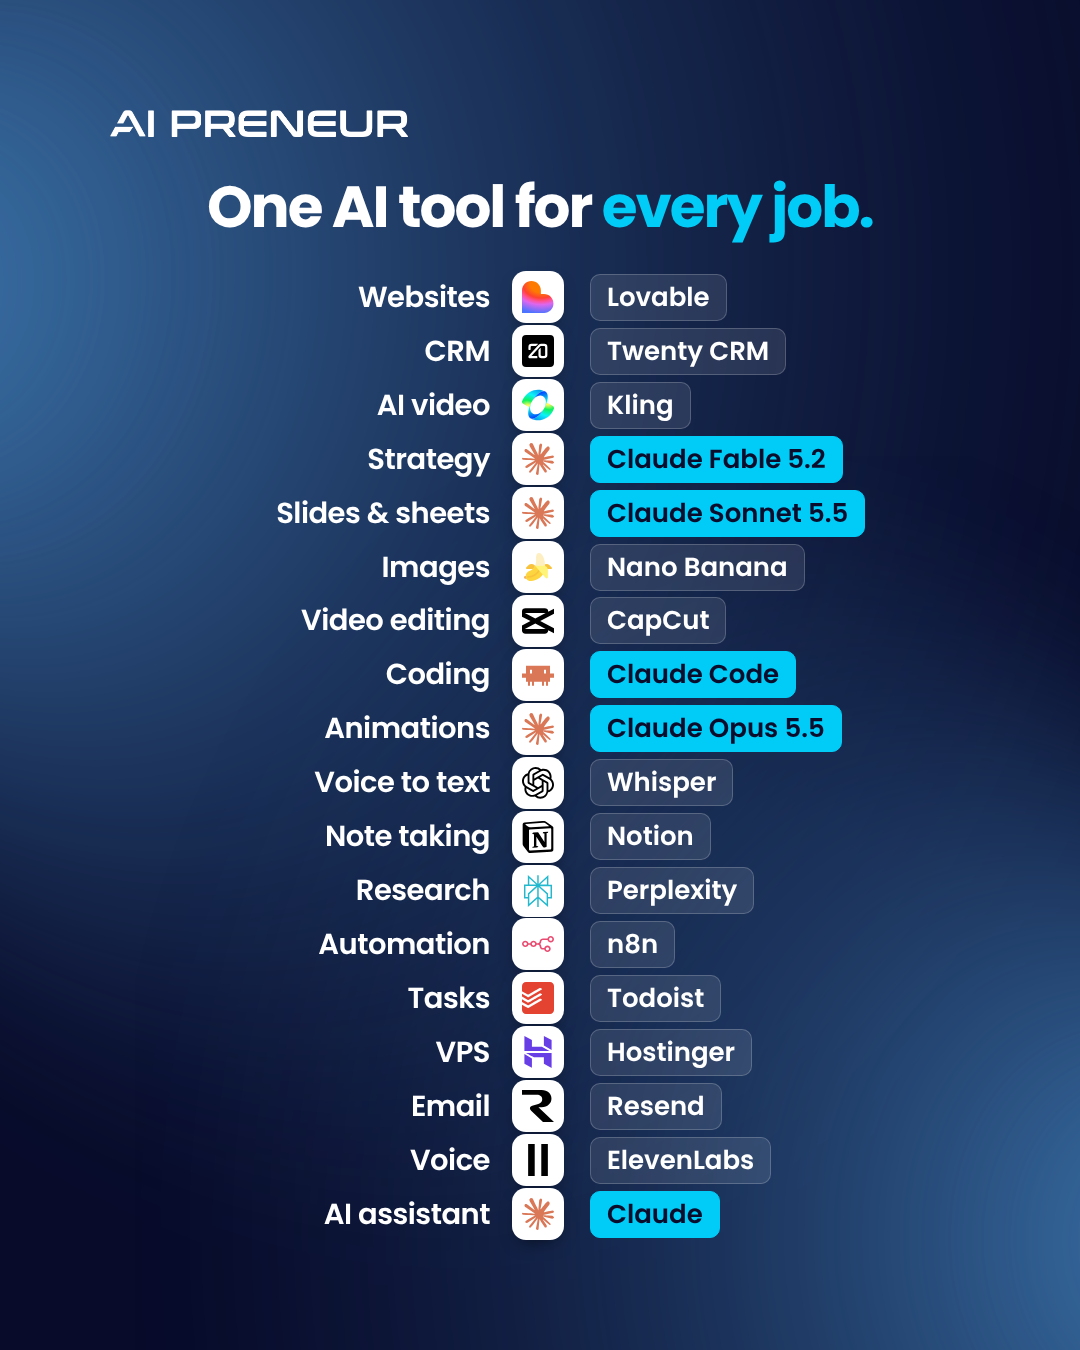
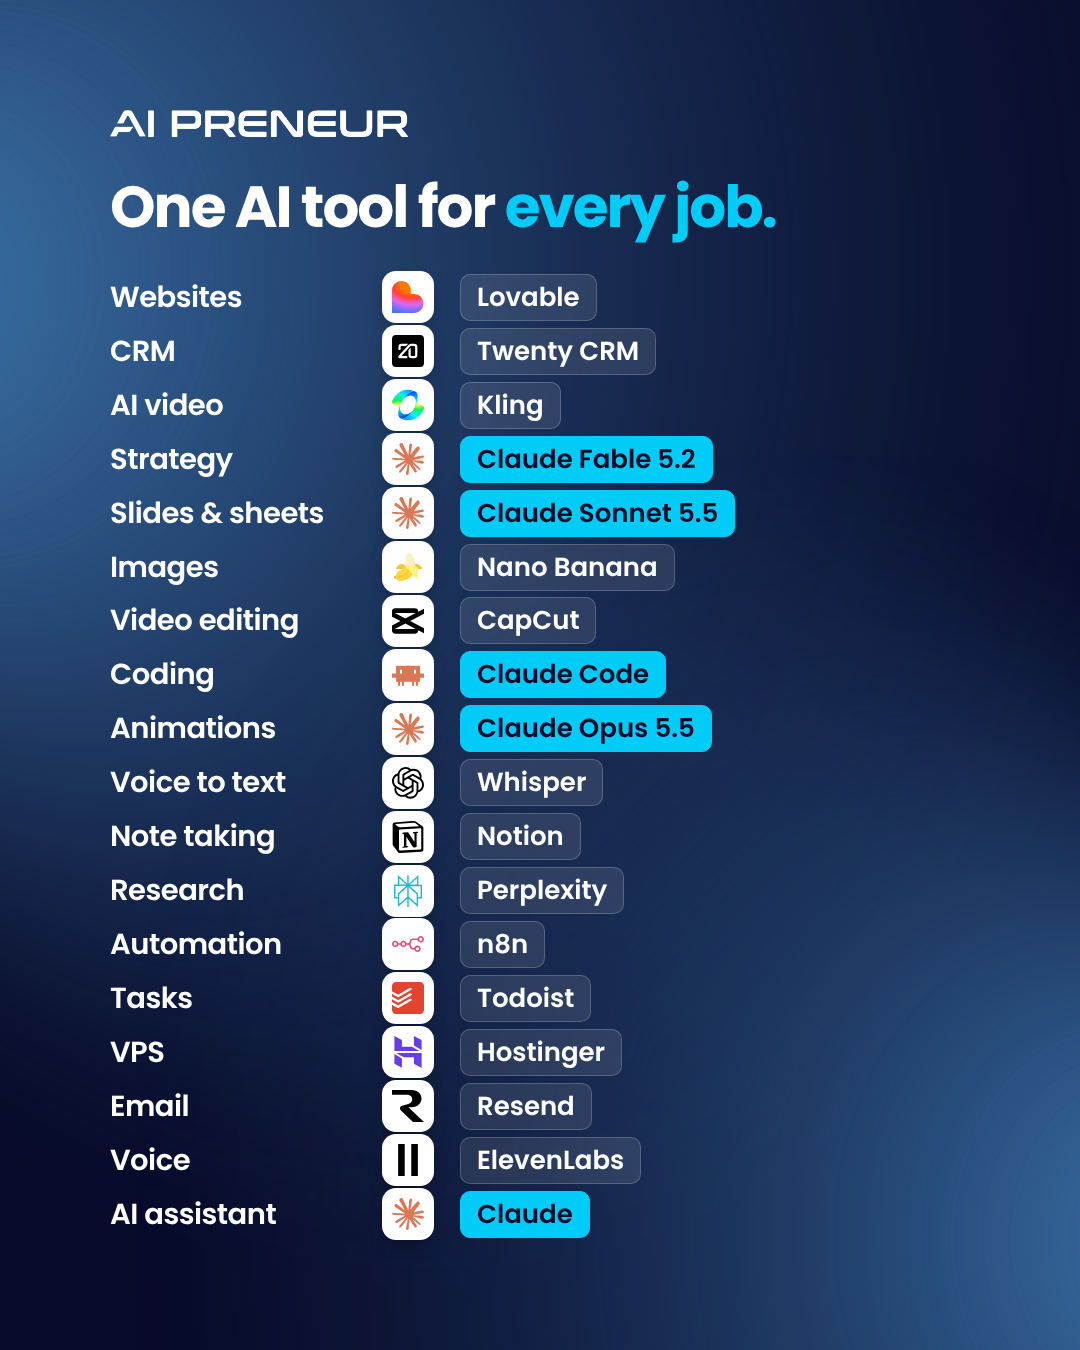
AI stack: left-aligned layout
Claude-Session: https://claude.ai/code/session_01FYKeHLx1qY2bAhSHR89JeA

Changed region(s): [[0.0917, 0.1244, 0.825, 0.9333]]

diff --git a/projects/ai-stack-2026/style.css b/projects/ai-stack-2026/style.css
@@ -22,3 +22,8 @@ h1{text-align:center}
 .tile{width:52px;height:52px;border-radius:14px}.tile img{width:32px;height:32px}
 .pill{font-size:26px;padding:3px 16px}
 h1{font-size:58px}.list{margin-top:34px}
+/* v3: left-aligned like the reference */
+h1{text-align:left}
+.r{grid-template-columns:300px 56px 1fr;gap:22px}
+.k{text-align:left}
+.r{grid-template-columns:250px 56px 1fr}
